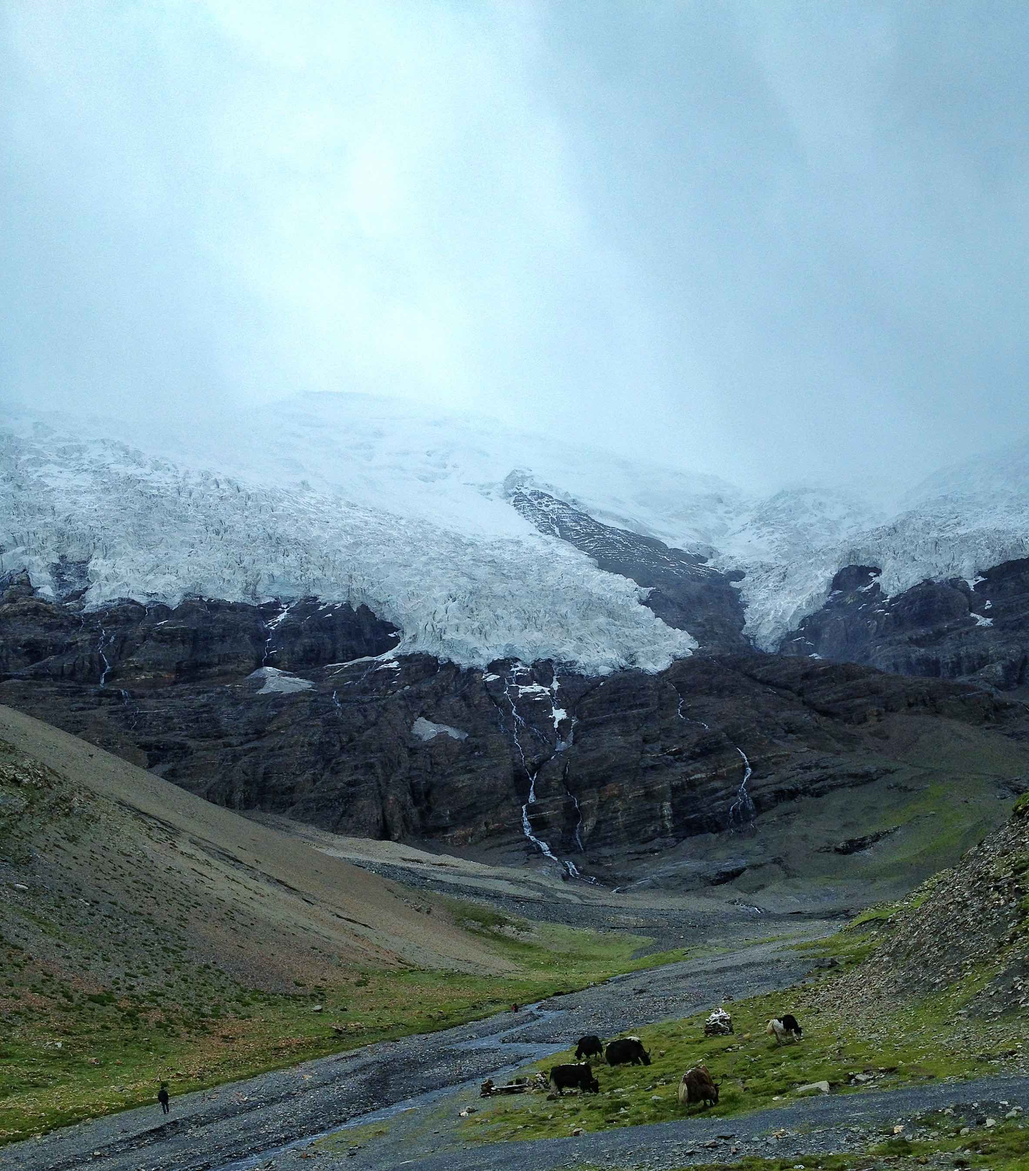
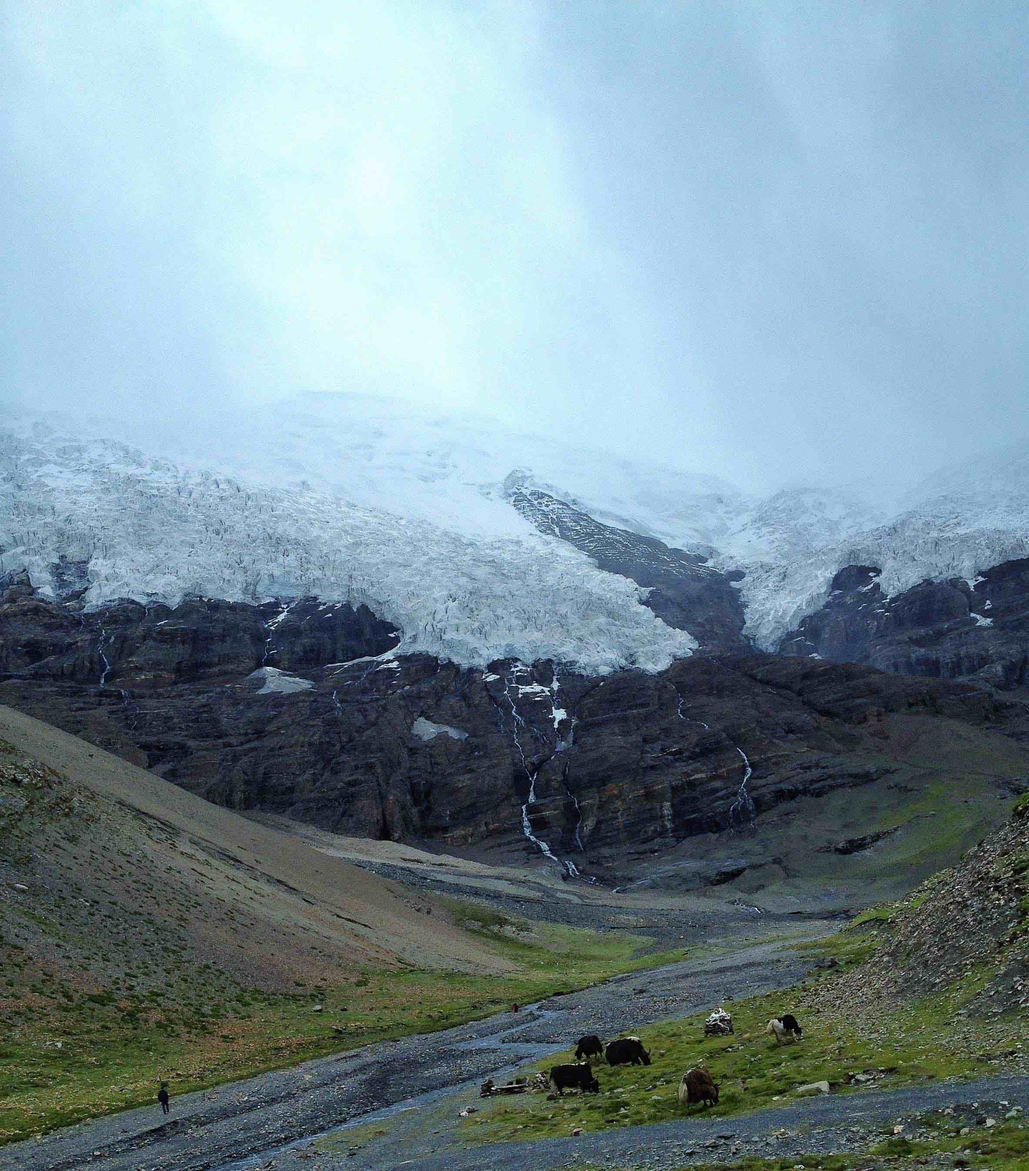
reduced file size of bg img

diff --git a/index.html b/index.html
@@ -695,7 +695,7 @@ A&nbsp;small&nbsp;country has&nbsp;fewer&nbsp;people.
 <font color = white>
 Thank you for listening!
 If you have enjoyed the music,
-please consider <a href="https://www.paypal.com/cgi-bin/webscr?cmd=_s-xclick&hosted_button_id=QJTNEEP83DHP8" target="_top">making a contribution</a>
+consider <a href="https://www.paypal.com/cgi-bin/webscr?cmd=_s-xclick&hosted_button_id=QJTNEEP83DHP8" target="_top">making a contribution</a>
 for a digital download.
 This is an ongoing project.
 My goal is to set to music
